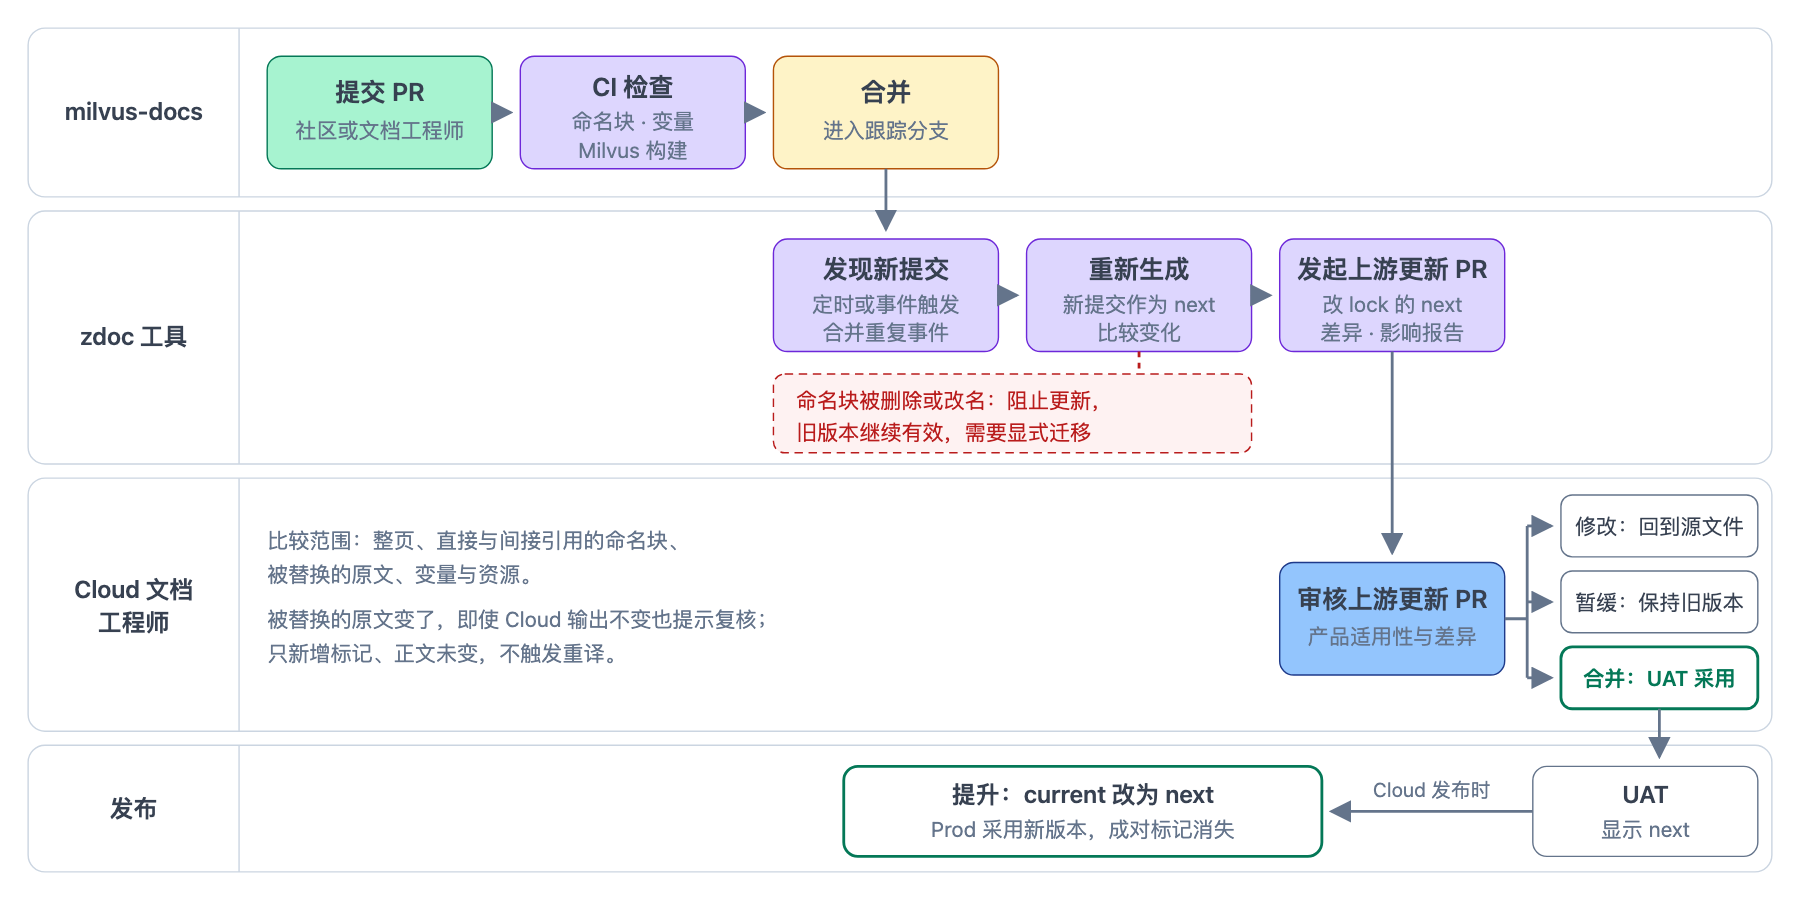
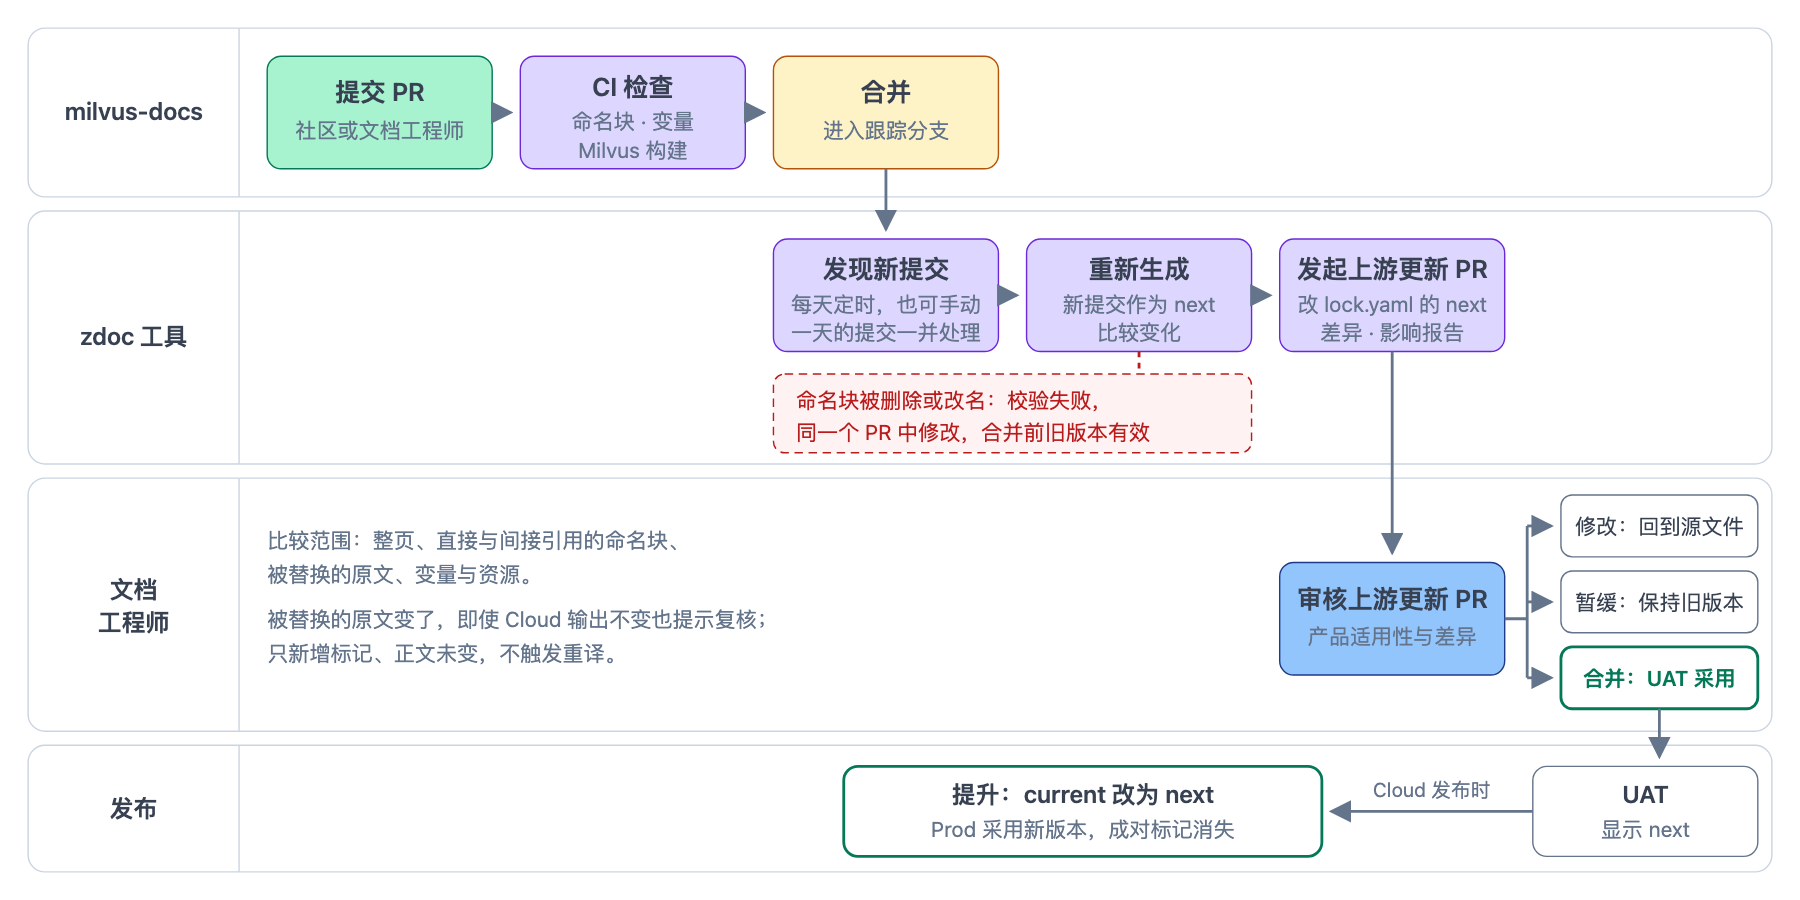
docs: align upstream changes (06) and its flow figure with the design
Fix the flow figure (daily or manual runs, not events; failing named
blocks are fixed in the same PR; 文档工程师; lock.yaml) and re-render it.
Link 06 to 04, reorder to discovery, PR content, rolling PRs and change
handling, rewrite the change table in plain language, split the report
context note, and spell out lock.yaml.

diff --git a/docs/interfaces/06-upstream-changes.md b/docs/interfaces/06-upstream-changes.md
@@ -1,58 +1,30 @@
 # 06 上游变化的发现与影响报告
 
-milvus-docs 合并新提交后，Cloud 要自动得知，并自己决定是否采用、何时采用。本篇定义怎样发现上游变化、怎样发起上游更新 PR，以及 PR 中给审核人看的影响报告。
+milvus-docs 合并新提交后，Cloud 要自动得知，并自己决定是否采用、何时采用。[04](./04-channels-and-lock.md#上游更新) 讲了上游更新改的是 `lock.yaml` 中的 `next`；本篇定义工具怎样发现上游变化、开出什么样的上游更新 PR，以及 PR 中给审核人看的影响报告。
 
 **参与方**：milvus-docs（新提交）、zdoc 中的“上游更新”工作流（发现、生成、发起 PR）、文档工程师（审核）。
 
-**状态**：已定义，待文档负责人确认。接入、下线与提升这几种由 Cloud 发起的 PR 见 [04](./04-channels-and-lock.md#lockyaml-怎样变化)。
+**状态**：已定义，待文档负责人确认。接入、下线与提升这几种由文档工程师发起的 PR 见 [04](./04-channels-and-lock.md#lockyaml-怎样变化)。
 
 ## 约定
 
 ### 流程
 
-![上游变化成为 Cloud 上游更新 PR 的过程：milvus-docs 的 PR 经 CI 检查后合并；zdoc 工具发现新提交，固定 commit 重新生成并比较变化，在 zdoc 发起附 lock、生成差异和影响报告的上游更新 PR；命名块被删除或改名时阻止更新，旧版本继续有效。文档工程师审核：修改则回到源文件，暂缓则保持旧版本，合并则更新 lock 的 next，新版本先在 UAT 可见；Cloud 发布时把 current 改为 next，Prod 采用新版本。](../assets/upgrade-pr-flow.png)
+![上游变化成为 Cloud 上游更新 PR 的过程：milvus-docs 的 PR 经 CI 检查后合并，进入跟踪分支；zdoc 的上游更新工作流每天定时运行（也可手动），把新提交作为 next 重新生成并比较变化，在 zdoc 发起上游更新 PR，改 lock.yaml 的 next，附生成结果差异和影响报告；命名块被删除或改名时校验失败，在同一个 PR 中修改，合并前旧版本继续有效。文档工程师审核：修改则回到源文件，暂缓则保持旧版本，合并则新版本先在 UAT 可见；Cloud 发布时提升，把 current 改为 next，Prod 采用新版本。](../assets/upgrade-pr-flow.png)
 
 图 1 · 上游变化怎样成为 Cloud 的上游更新 PR
 
 - **上游更新 PR 就是一个普通的 zdoc PR。** 审核与批准沿用 GitHub PR，不另建审批记录。合并后，master 推送触发 Fetch（见 [05](./05-publish-handoff.md#触发时机)），新版本随后在 UAT 可见。
-- **跟踪分支只用于发现变化**，正式生成使用 lock 中的 commit，见 [04](./04-channels-and-lock.md#共享来源配置与跟踪分支)。
+- **跟踪分支只用于发现变化**，正式生成使用 `lock.yaml` 中的 commit，见 [04](./04-channels-and-lock.md#共享来源配置与跟踪分支)。
 
 ### 发现与运行
 
 zdoc 新增“上游更新”工作流：
 
-- **每天定时运行一次，也可以手动触发。** 读取 milvus-docs 跟踪分支的最新提交，与每个共享页 lock 中的 `next` 比较；已下线（`next: none`）的页面不检查。一天内的多个提交由同一次运行一并处理。
+- **每天定时运行一次，也可以手动触发。** 读取 milvus-docs 跟踪分支的最新提交，与每个共享页 `lock.yaml` 中的 `next` 比较；已下线（`next: none`）的页面不检查。一天内的多个提交由同一次运行一并处理。
 - **手动触发时可以指定页面与目标提交。** 同样的输入得到同样的结果；结果没有变化时，不产生新的提交。
 - **执行身份是 zdoc 仓库自带的 `GITHUB_TOKEN`**，与现有的 master→dev 同步工作流相同：用它推送分支、开 PR，开好后显式触发校验工作流（用 `GITHUB_TOKEN` 开的 PR 不会自动触发其他工作流）。
 - 读取 milvus-docs 不需要凭据。生成是候选运行（见 [05](./05-publish-handoff.md#pr-校验)），不上传图片，不需要任何 Cloud 凭据。milvus-docs 中的社区 PR 不会运行 zdoc 的任何代码。
-
-### 每页一个滚动更新的 PR
-
-| 情况 | 做法 |
-|---|---|
-| 某页的输入有变化（原文、用到的片段），且还没有它的上游更新 PR | 开一个新 PR，把这一页的 `next` 改为最新提交 |
-| 这一页已有一个未合并的上游更新 PR | 更新这个 PR：`next` 改为更新的提交，重新生成报告；不另开 PR |
-| 这一页的输入没有变化 | 不处理，lock 不动 |
-| 几页在同一批提交中互相依赖（例如一页改了标题，另一页改了指向它的链接） | 合进同一个 PR，一起采用 |
-| 这一页的 lock 在 PR 开出后被改过（提升或下线 PR 已合并） | 下一次运行按新的 lock 重建这个 PR；lock 中 `current` 与 `next` 是相邻的两行，不重建会产生 Git 冲突 |
-| 这一页已下线（`next: none`），上游更新 PR 还开着 | 下一次运行关闭这个 PR，并写明“页面已下线” |
-
-审核人暂缓某一页时，这一页的 PR 保持打开，之后的上游修改继续累积到这个 PR 中，不影响其他页面。
-
-### 上游变化的处理
-
-| 上游变化 | 行为 |
-|---|---|
-| 新增合法的命名块 | 自动进入命名块清单，不自动更新或发布 |
-| 移动块或修改标题，ID 不变 | 身份保持，检查内容和上下文变化 |
-| 块改名或删除 | 校验失败，见“出错时” |
-| 被 Cloud 替换的原文发生变化 | 即使 Cloud 输出不变，也提示复核 |
-| 被 Cloud 按行定位的代码行被修改 | `lines` 匹配失败，校验失败，见“出错时” |
-| Cloud 规则只在 `next` 上失效 | 校验失败并指出通道，见“出错时” |
-| 类型、上下文或语言变化 | 检查兼容性，不静默组装 |
-| 只新增标记，正文未变 | 更新身份与依赖，不触发重译 |
-| 标题改名 | 报告改名与受影响的链接，处理见 [04](./04-channels-and-lock.md#标题改名与锚点) |
-| 原文被改名或删除 | 校验失败，见“出错时” |
 
 ### PR 的内容
 
@@ -74,16 +46,45 @@ zdoc 新增“上游更新”工作流：
 | 一起采用的原因 | 合并了多页时，说明它们之间的依赖 |
 | 翻译 | Cloud 输出是否变化，即是否会触发重新翻译 |
 
-代码组报告完整代码组的上下文，Markdown 块报告页面上下文，按行定位的规则随所在代码组报告。摘要只能发现变化，不能判断语义是否一致，Phase 1 提示可以保守。
+- **报告附多少上下文**：代码组的变化附整个代码组；Markdown 块的变化附它在页面中的前后文；按代码行修改的规则，随所在代码组一起报告。
+- **报告只能发现“变了”**：工具按摘要比较，能发现内容有变化，但不能判断改动后意思是否还一样。所以 Phase 1 宁可多提示，由审核人判断。
+
+### 每页一个滚动更新的 PR
+
+| 情况 | 做法 |
+|---|---|
+| 某页的输入有变化（原文、用到的片段），且还没有它的上游更新 PR | 开一个新 PR，把这一页的 `next` 改为最新提交 |
+| 这一页已有一个未合并的上游更新 PR | 更新这个 PR：`next` 改为更新的提交，重新生成报告；不另开 PR |
+| 这一页的输入没有变化 | 不处理，`lock.yaml` 不动 |
+| 几页在同一批提交中互相依赖（例如一页改了标题，另一页改了指向它的链接） | 合进同一个 PR，一起采用 |
+| 这一页的 `lock.yaml` 在 PR 开出后被改过（提升或下线 PR 已合并） | 下一次运行按新的 `lock.yaml` 重建这个 PR；其中 `current` 与 `next` 是相邻的两行，不重建会产生 Git 冲突 |
+| 这一页已下线（`next: none`），上游更新 PR 还开着 | 下一次运行关闭这个 PR，并写明“页面已下线” |
+
+审核人暂缓某一页时，这一页的 PR 保持打开，之后的上游修改继续累积到这个 PR 中，不影响其他页面。
+
+### 上游变化怎样处理
+
+不同的上游变化，在上游更新 PR 中的表现不同：
+
+| 上游变化 | 在 PR 中的表现 |
+|---|---|
+| 普通的正文修改 | 报告列出 UAT 将看到的变化 |
+| 被 Cloud 替换掉的那段原文变了 | 即使 Cloud 页面不变，报告也提示复核：Cloud 的替换内容是否要跟着改 |
+| 标题改名 | 报告列出改名与受影响的链接；链接在提升时处理，见 [04](./04-channels-and-lock.md#标题改名与锚点) |
+| 新增命名块 | 报告列出，不改变 Cloud 页面 |
+| 命名块移动位置，或块内标题改了，ID 不变 | 仍是同一个块，规则照常生效；报告列出内容与前后文的变化 |
+| 命名块的类型、语言变了（例如代码组变成 Markdown 块，或少了一种语言） | 按新原文重新检查 Cloud 规则；规则不再成立时校验失败 |
+| 只新增了命名块标记，正文没变 | Cloud 页面不变，不触发重新翻译 |
+| 命名块改名或删除；被 `lines` 定位的代码行改了；Cloud 规则只在 `next` 上失效；原文被改名或删除 | 校验失败，处理见“出错时” |
 
 ## 出错时
 
 | 情况 | 结果 |
 |---|---|
-| 生成失败：命名块被删或改名、`lines` 匹配不到、Cloud 规则只在 `next` 上失效 | 照样开或更新 PR，校验标为失败，报告写明原因与修改建议：通常是把原规则标为 `channel: current`，再按新原文加一条 `channel: next` 的规则（见 [02](./02-page-config.md#只对一个通道生效的规则)）。文档工程师在同一个 PR 中修改，校验通过后才能合并；未合并前 lock 不变，旧版本继续有效 |
+| 生成失败：命名块被删或改名、`lines` 匹配不到、Cloud 规则只在 `next` 上失效 | 照样开或更新 PR，校验标为失败，报告写明原因与修改建议：通常是把原规则标为 `channel: current`，再按新原文加一条 `channel: next` 的规则（见 [02](./02-page-config.md#只对一个通道生效的规则)）。文档工程师在同一个 PR 中修改，校验通过后才能合并；未合并前 `lock.yaml` 不变，旧版本继续有效 |
 | 原文被改名或删除 | 照样开或更新 PR，校验失败，报告写明原因。删除时建议下线这一页；改名时由文档工程师在同一个 PR 中改 `source.file`，Phase 1 不提供专门写法 |
 | 工作流本身出错（如网络问题） | 下一次定时运行自动重试；失败情况沿用 zdoc 现有的飞书通知 |
-| milvus-docs 跟踪分支的历史被改写，lock 中的 commit 不再在分支上 | 失败并通知，需要人工处理（见 04 的出错规则） |
+| milvus-docs 跟踪分支的历史被改写，`lock.yaml` 中的 commit 不再在分支上 | 失败并通知，需要人工处理（见 04 的出错规则） |
 
 ## 例子
 
